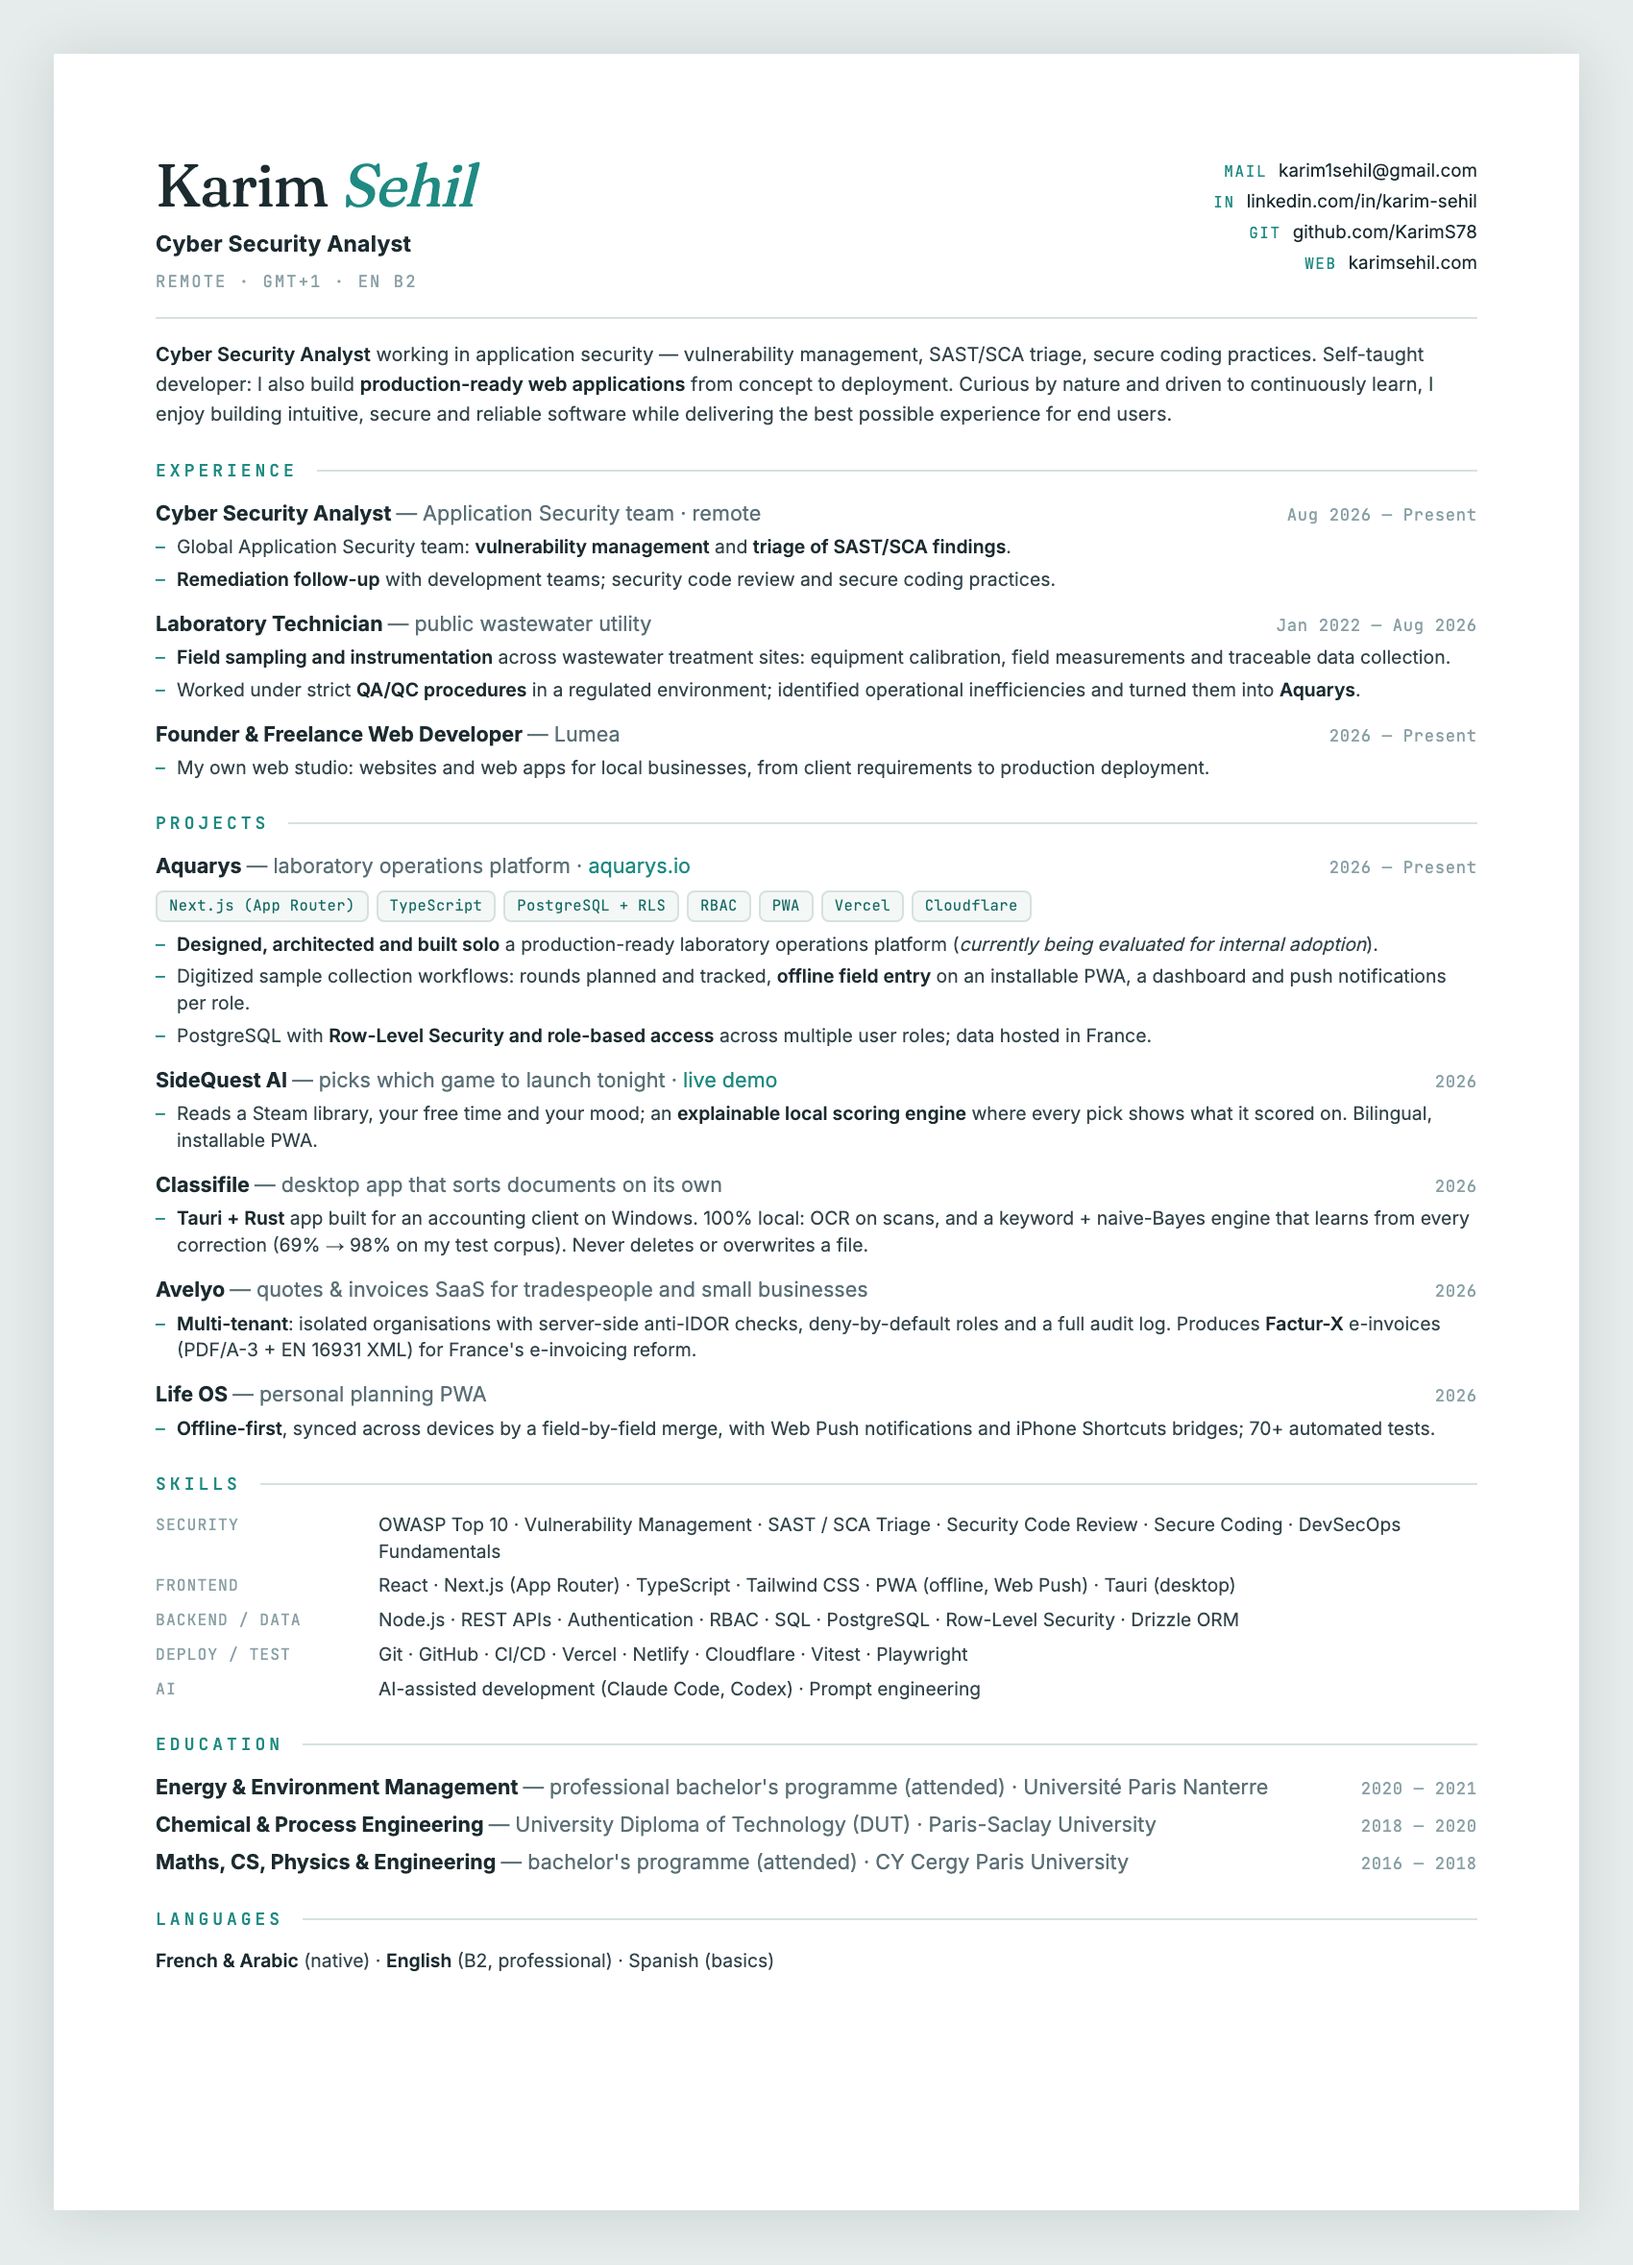
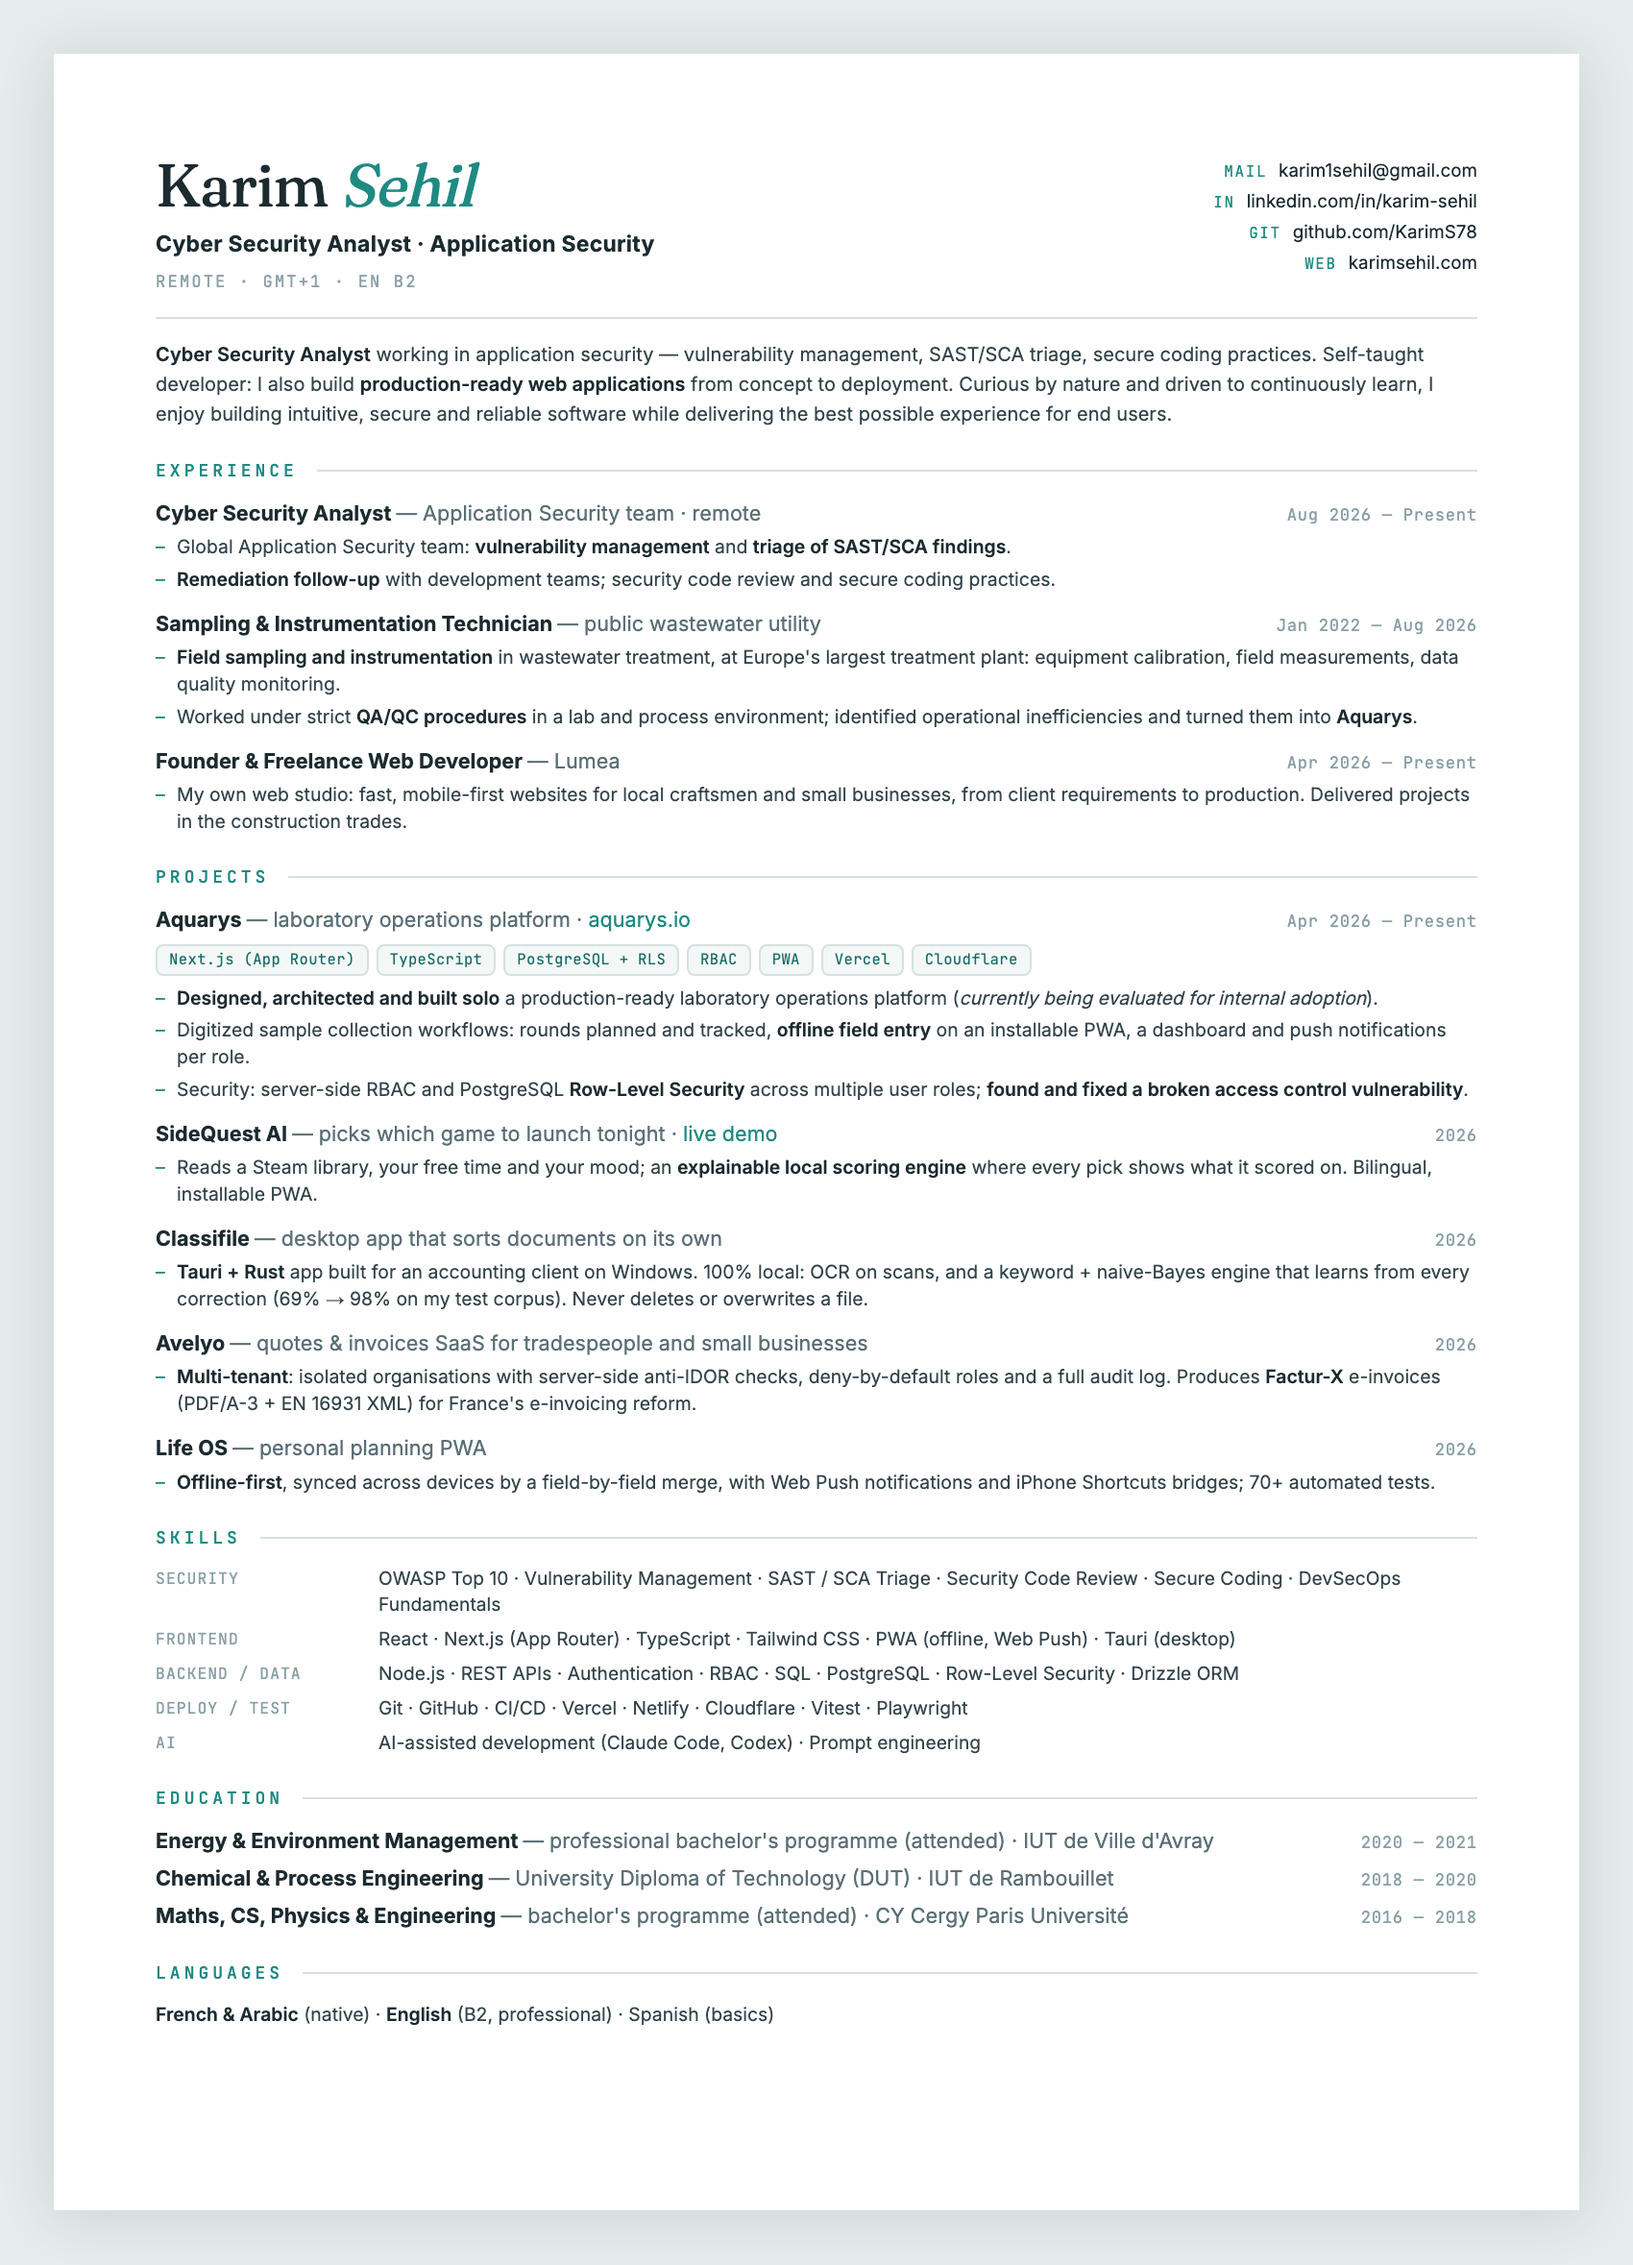
CV aligné sur LinkedIn : titre, intitulés, dates, écoles

Changed region(s): [[0.0935, 0.2477, 0.9041, 0.8978], [0.2806, 0.0929, 0.4053, 0.1238], [0.8418, 0.774, 0.9041, 0.8359]]

diff --git a/index.html b/index.html
@@ -3,7 +3,7 @@
 <head>
 <meta charset="utf-8">
 <title>Karim Sehil — CV</title>
-<meta name="description" content="CV of Karim Sehil — Cyber Security Analyst.">
+<meta name="description" content="CV of Karim Sehil — Cyber Security Analyst · Application Security.">
 <link rel="preconnect" href="https://fonts.googleapis.com">
 <link rel="preconnect" href="https://fonts.gstatic.com" crossorigin>
 <link href="https://fonts.googleapis.com/css2?family=Fraunces:opsz,wght@9..144,400;9..144,600&family=Inter:wght@400;500;600;700&family=JetBrains+Mono:wght@400;500&display=swap" rel="stylesheet">
@@ -90,7 +90,7 @@
   <div class="head">
     <div>
       <div class="name">Karim <em>Sehil</em></div>
-      <div class="role">Cyber Security Analyst</div>
+      <div class="role">Cyber Security Analyst · Application Security</div>
       <div class="avail">Remote · GMT+1 · EN B2</div>
     </div>
     <div class="contacts">
@@ -120,27 +120,27 @@
   </ul>
 
   <div class="item-head blockgap">
-    <div class="t">Laboratory Technician <span class="desc">— <span data-private="lab_employer">public wastewater utility</span></span></div>
+    <div class="t">Sampling &amp; Instrumentation Technician <span class="desc">— <span data-private="lab_employer">public wastewater utility</span></span></div>
     <div class="date">Jan 2022 — Aug 2026</div>
   </div>
   <ul>
-    <li><b>Field sampling and instrumentation</b> across wastewater treatment sites: equipment calibration, field measurements and traceable data collection.</li>
-    <li>Worked under strict <b>QA/QC procedures</b> in a regulated environment; identified operational inefficiencies and turned them into <b>Aquarys</b>.</li>
+    <li><b>Field sampling and instrumentation</b> in wastewater treatment, at Europe's largest treatment plant: equipment calibration, field measurements, data quality monitoring.</li>
+    <li>Worked under strict <b>QA/QC procedures</b> in a lab and process environment; identified operational inefficiencies and turned them into <b>Aquarys</b>.</li>
   </ul>
 
   <div class="item-head blockgap">
     <div class="t">Founder &amp; Freelance Web Developer <span class="desc">— Lumea</span></div>
-    <div class="date">2026 — Present</div>
+    <div class="date">Apr 2026 — Present</div>
   </div>
   <ul>
-    <li>My own web studio: websites and web apps for local businesses, from client requirements to production deployment.</li>
+    <li>My own web studio: fast, mobile-first websites for local craftsmen and small businesses, from client requirements to production. Delivered projects in the construction trades.</li>
   </ul>
 
   <div class="sec"><h2>Projects</h2><div class="ln"></div></div>
 
   <div class="item-head">
     <div class="t">Aquarys <span class="desc">— laboratory operations platform · <a href="https://aquarys.io">aquarys.io</a></span></div>
-    <div class="date">2026 — Present</div>
+    <div class="date">Apr 2026 — Present</div>
   </div>
   <div class="tags">
     <span class="tag">Next.js (App Router)</span><span class="tag">TypeScript</span><span class="tag">PostgreSQL + RLS</span><span class="tag">RBAC</span><span class="tag">PWA</span><span class="tag">Vercel</span><span class="tag">Cloudflare</span>
@@ -148,7 +148,7 @@
   <ul>
     <li><b>Designed, architected and built solo</b> a production-ready laboratory operations platform (<i>currently being evaluated for internal adoption</i>).</li>
     <li>Digitized sample collection workflows: rounds planned and tracked, <b>offline field entry</b> on an installable PWA, a dashboard and push notifications per role.</li>
-    <li>PostgreSQL with <b>Row-Level Security and role-based access</b> across multiple user roles; data hosted in France.</li>
+    <li>Security: server-side RBAC and PostgreSQL <b>Row-Level Security</b> across multiple user roles; <b>found and fixed a broken access control vulnerability</b>.</li>
   </ul>
 
   <div class="item-head blockgap">
@@ -207,15 +207,15 @@
 
   <div class="sec"><h2>Education</h2><div class="ln"></div></div>
   <div class="item-head">
-    <div class="t">Energy &amp; Environment Management <span class="desc">— professional bachelor's programme (attended) · Université Paris Nanterre</span></div>
+    <div class="t">Energy &amp; Environment Management <span class="desc">— professional bachelor's programme (attended) · IUT de Ville d'Avray</span></div>
     <div class="date">2020 — 2021</div>
   </div>
   <div class="item-head" style="margin-top:4px">
-    <div class="t">Chemical &amp; Process Engineering <span class="desc">— University Diploma of Technology (DUT) · Paris-Saclay University</span></div>
+    <div class="t">Chemical &amp; Process Engineering <span class="desc">— University Diploma of Technology (DUT) · IUT de Rambouillet</span></div>
     <div class="date">2018 — 2020</div>
   </div>
   <div class="item-head" style="margin-top:4px">
-    <div class="t">Maths, CS, Physics &amp; Engineering <span class="desc">— bachelor's programme (attended) · CY Cergy Paris University</span></div>
+    <div class="t">Maths, CS, Physics &amp; Engineering <span class="desc">— bachelor's programme (attended) · CY Cergy Paris Université</span></div>
     <div class="date">2016 — 2018</div>
   </div>
 
